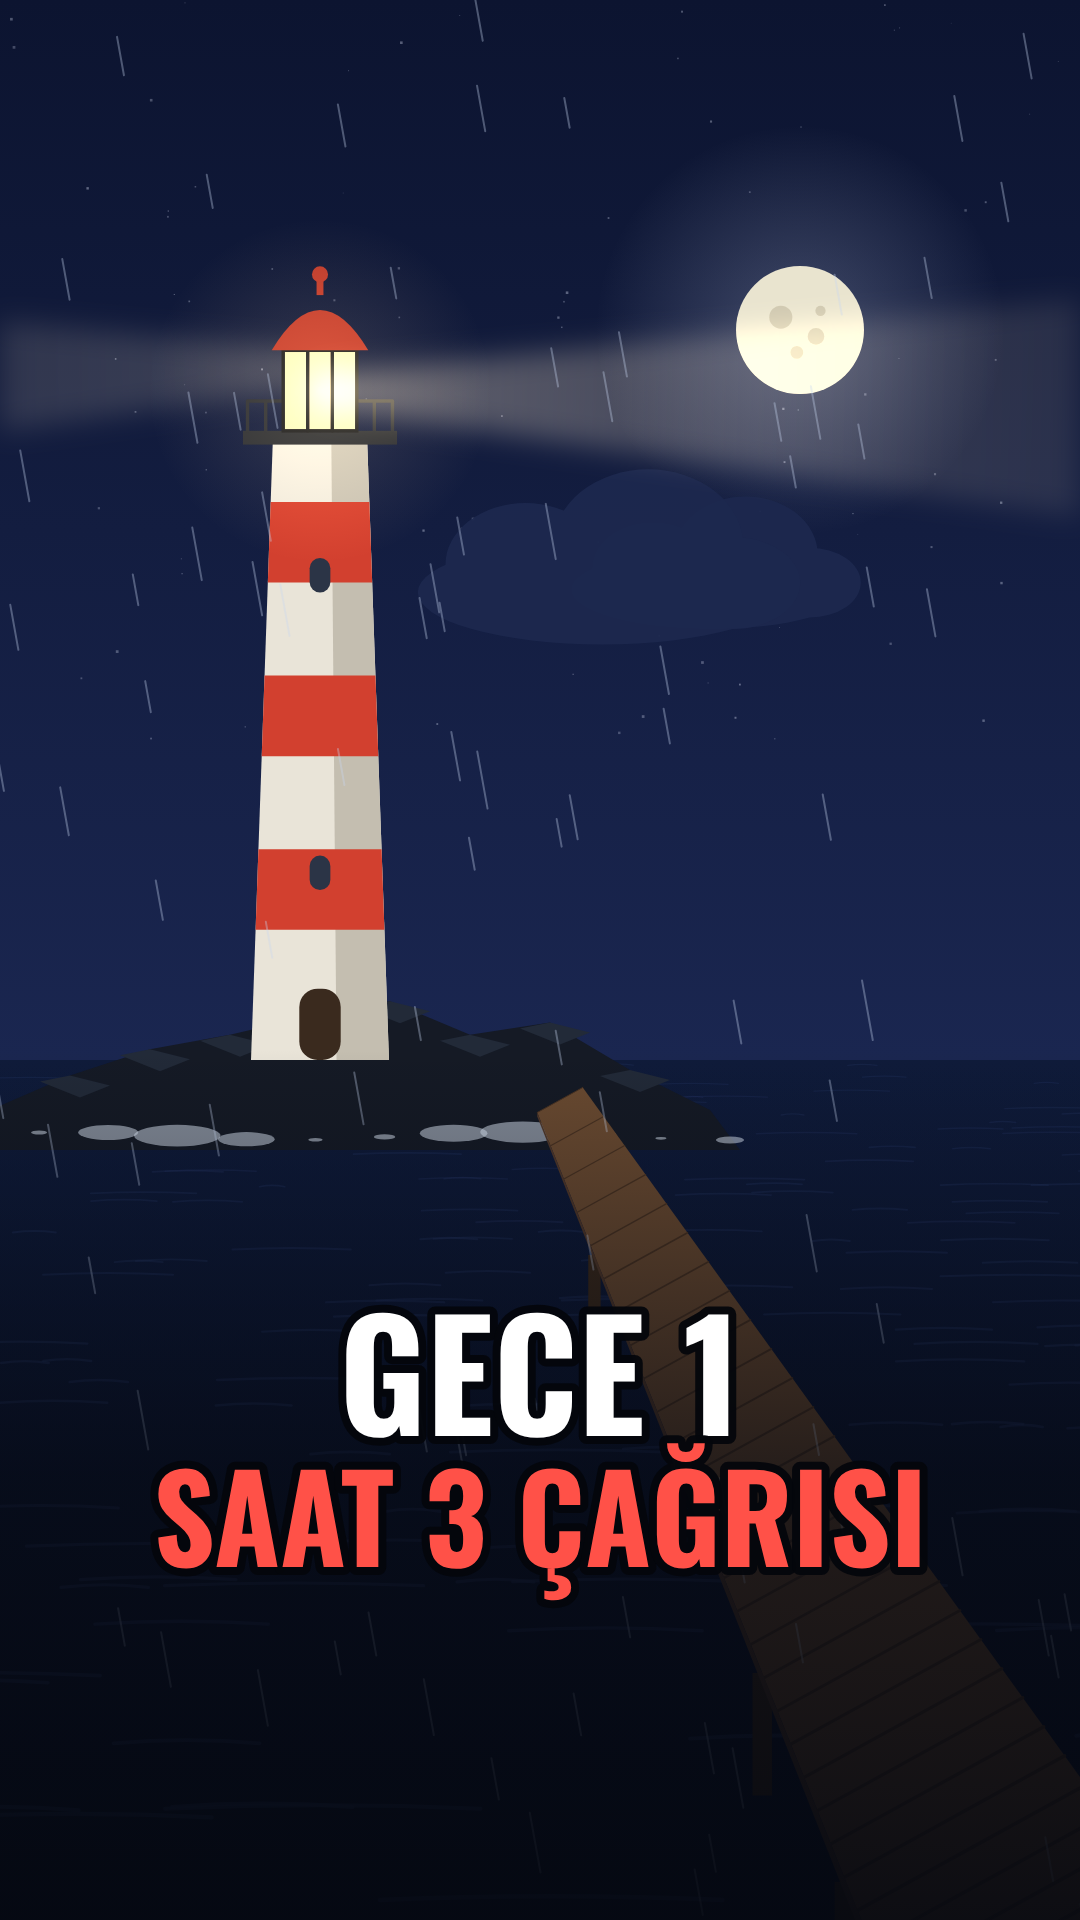
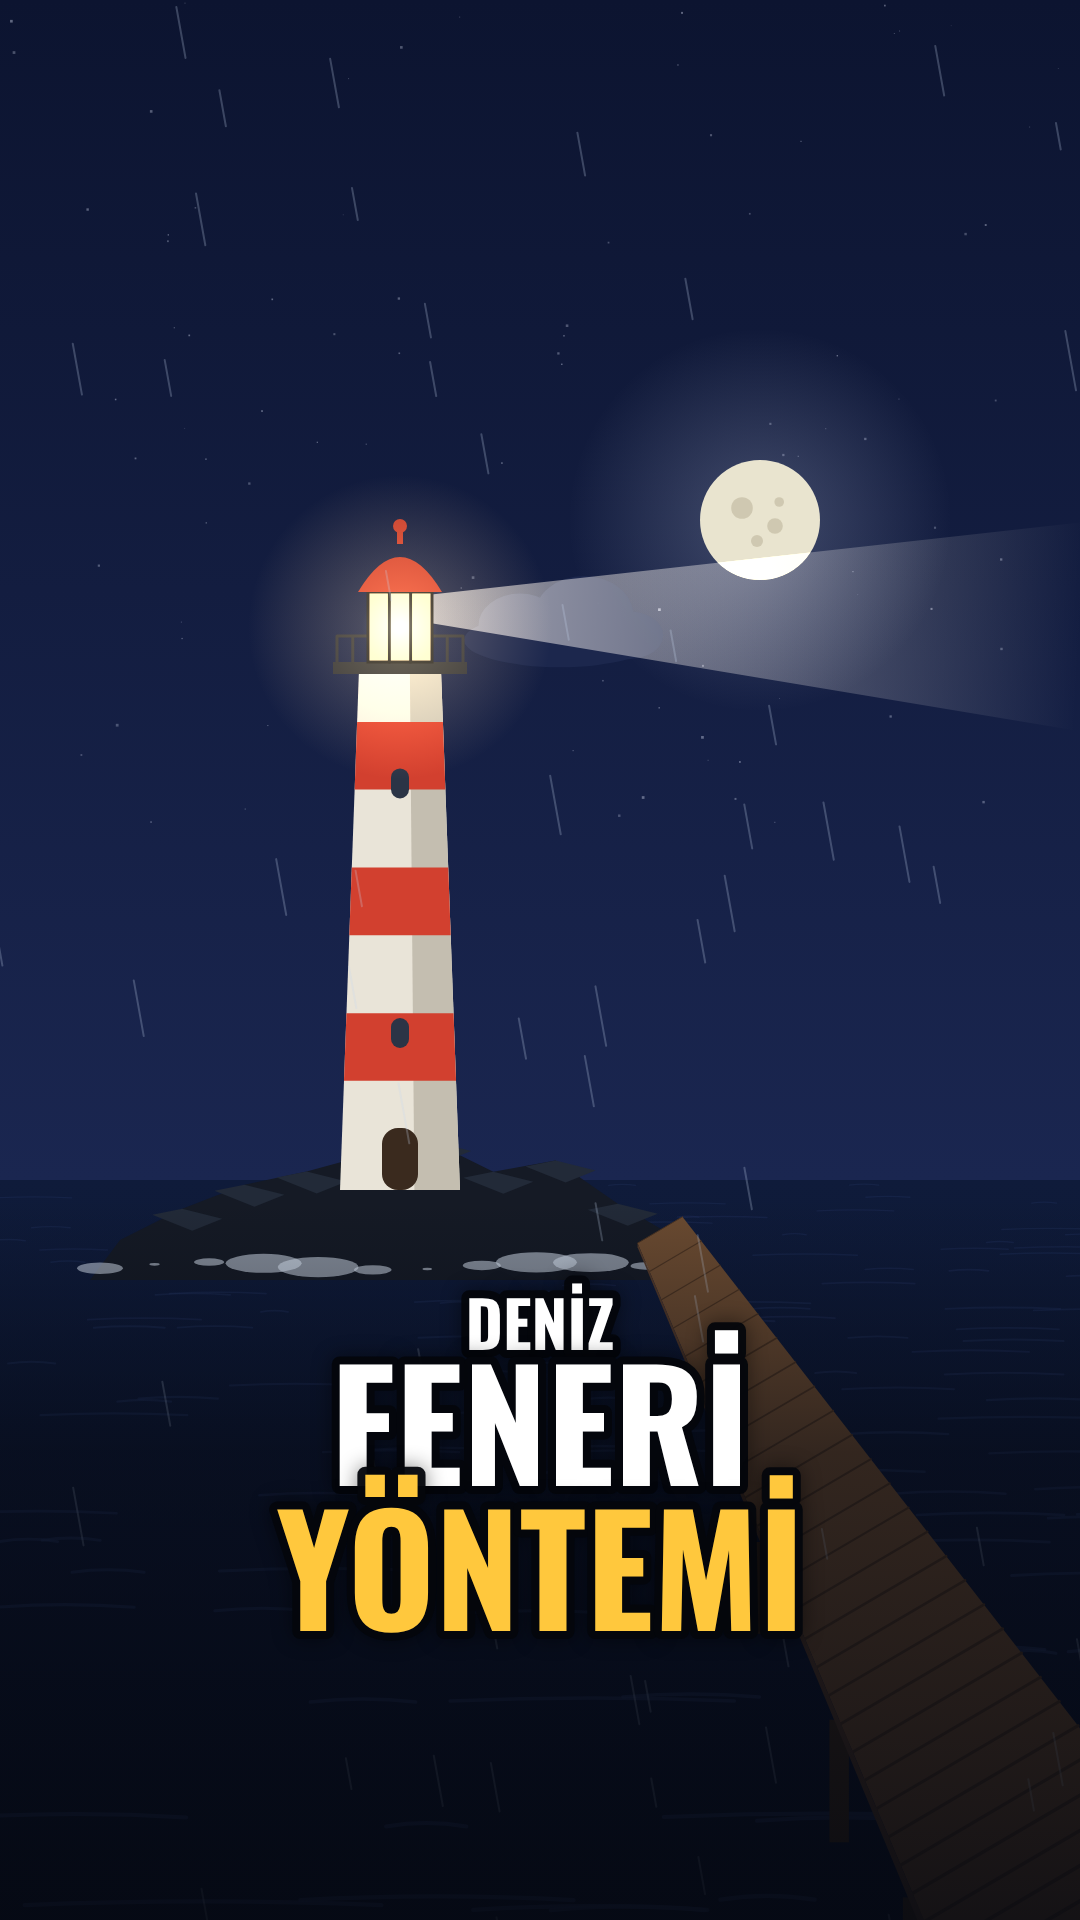
Tuhaf Saat: yeni kapak (Deniz Feneri Yöntemi) ve profil fotoğrafı
Claude-Session: https://claude.ai/code/session_019AVEw9Bb178qSbqNE47MX8

Changed region(s): [[0.0, 0.0938, 1.0, 0.9375], [0.0611, 0.6562, 0.1222, 0.6875]]

diff --git a/tuhaf/motor/marka.js b/tuhaf/motor/marka.js
@@ -3,71 +3,92 @@
 
 function drawPP(ctx, S = 1080) {
   ctx.save(); ctx.setTransform(1, 0, 0, 1, 0, 0);
-  const g = ctx.createRadialGradient(S * 0.5, S * 0.5, 40, S * 0.5, S * 0.5, S * 0.72);
-  g.addColorStop(0, '#222a55'); g.addColorStop(1, '#0a0e22');
+  // gece mavisi zemin, ortada hafif ışık
+  const g = ctx.createRadialGradient(S * 0.5, S * 0.46, 30, S * 0.5, S * 0.5, S * 0.7);
+  g.addColorStop(0, '#26306a'); g.addColorStop(0.55, '#161c40'); g.addColorStop(1, '#090c1e');
   ctx.fillStyle = g; ctx.fillRect(0, 0, S, S);
-  const cx = S * 0.48;
+  const cx = S * 0.5;
+  const fx = S * 0.61, fy = S * 0.545;          // mum alevi
   // mum ışığı hâlesi
-  const fx = S * 0.6, fy = S * 0.6;
   ctx.save(); ctx.globalCompositeOperation = 'lighter';
-  const hg = ctx.createRadialGradient(fx, fy, 0, fx, fy, S * 0.42);
-  hg.addColorStop(0, 'rgba(255,190,110,0.32)'); hg.addColorStop(1, 'rgba(255,190,110,0)');
+  const hg = ctx.createRadialGradient(fx, fy, 0, fx, fy, S * 0.36);
+  hg.addColorStop(0, 'rgba(255,196,120,0.42)'); hg.addColorStop(0.4, 'rgba(255,170,90,0.14)'); hg.addColorStop(1, 'rgba(255,160,80,0)');
   ctx.fillStyle = hg; ctx.fillRect(0, 0, S, S); ctx.restore();
-  // cüppe
-  ctx.fillStyle = '#3a2b5e';
-  ctx.beginPath(); ctx.moveTo(cx - 150, S * 0.6); ctx.lineTo(cx - 260, S * 1.02); ctx.lineTo(cx + 270, S * 1.02); ctx.lineTo(cx + 160, S * 0.6); ctx.closePath(); ctx.fill();
-  ctx.fillStyle = '#2c2148';
-  ctx.beginPath(); ctx.moveTo(cx + 20, S * 0.62); ctx.lineTo(cx + 40, S * 1.02); ctx.lineTo(cx + 270, S * 1.02); ctx.lineTo(cx + 160, S * 0.6); ctx.closePath(); ctx.fill();
+  // cüppe (iki tonlu)
+  ctx.fillStyle = '#3b2b62';
+  ctx.beginPath(); ctx.moveTo(cx - 120, S * 0.6); ctx.quadraticCurveTo(cx - 200, S * 0.78, cx - 250, S * 1.02);
+  ctx.lineTo(cx + 250, S * 1.02); ctx.quadraticCurveTo(cx + 200, S * 0.78, cx + 120, S * 0.6); ctx.closePath(); ctx.fill();
+  ctx.fillStyle = '#2d2150';
+  ctx.beginPath(); ctx.moveTo(cx + 18, S * 0.62); ctx.lineTo(cx + 34, S * 1.02); ctx.lineTo(cx + 250, S * 1.02); ctx.quadraticCurveTo(cx + 200, S * 0.78, cx + 120, S * 0.6); ctx.closePath(); ctx.fill();
   // kapüşon
-  ctx.fillStyle = '#433268';
-  ctx.beginPath(); ctx.ellipse(cx, S * 0.43, 205, 225, 0, 0, Math.PI * 2); ctx.fill();
-  ctx.fillStyle = '#1c1433';
-  ctx.beginPath(); ctx.ellipse(cx, S * 0.45, 150, 158, 0, 0, Math.PI * 2); ctx.fill();
+  ctx.fillStyle = '#44336f';
+  ctx.beginPath(); ctx.ellipse(cx, S * 0.425, 180, 200, 0, 0, Math.PI * 2); ctx.fill();
+  ctx.fillStyle = '#3a2b61';
+  ctx.beginPath(); ctx.ellipse(cx + 40, S * 0.44, 140, 182, 0, -0.6, 1.6); ctx.fill();
+  ctx.fillStyle = '#17112b';
+  ctx.beginPath(); ctx.ellipse(cx, S * 0.445, 128, 136, 0, 0, Math.PI * 2); ctx.fill();
   // yüz
-  ctx.fillStyle = SKIN; ctx.strokeStyle = INK; ctx.lineWidth = 10;
-  ctx.beginPath(); ctx.ellipse(cx, S * 0.455, 122, 128, 0, 0, Math.PI * 2); ctx.fill(); ctx.stroke();
-  // gözler, kaşlar (biri havada), sinsi gülümseme
-  ctx.fillStyle = INK;
-  ctx.beginPath(); ctx.ellipse(cx - 42, S * 0.45, 12, 15, 0, 0, Math.PI * 2); ctx.ellipse(cx + 42, S * 0.45, 12, 15, 0, 0, Math.PI * 2); ctx.fill();
-  ctx.lineWidth = 9; ctx.lineCap = 'round';
-  ctx.beginPath(); ctx.moveTo(cx - 70, S * 0.4); ctx.lineTo(cx - 20, S * 0.41); ctx.moveTo(cx + 18, S * 0.405); ctx.lineTo(cx + 70, S * 0.385); ctx.stroke();
-  ctx.beginPath(); ctx.arc(cx + 6, S * 0.475, 46, Math.PI * 0.2, Math.PI * 0.75); ctx.stroke();
-  // kol ve el
-  ctx.strokeStyle = '#140f22'; ctx.lineWidth = 8;
-  ctx.beginPath(); ctx.moveTo(cx + 40, S * 0.72); ctx.lineTo(fx - 10, S * 0.7); ctx.stroke();
-  // mum
-  ctx.fillStyle = '#efe6cf'; rr(ctx, fx - 24, S * 0.53, 48, 150, 10); ctx.fill();
-  ctx.strokeStyle = '#c9bfa6'; ctx.lineWidth = 4; ctx.stroke();
-  ctx.fillStyle = SKIN; ctx.strokeStyle = INK; ctx.lineWidth = 7;
-  ctx.beginPath(); ctx.arc(fx, S * 0.7, 32, 0, Math.PI * 2); ctx.fill(); ctx.stroke();
+  ctx.fillStyle = SKIN; ctx.strokeStyle = INK; ctx.lineWidth = 9;
+  ctx.beginPath(); ctx.ellipse(cx, S * 0.452, 104, 110, 0, 0, Math.PI * 2); ctx.fill(); ctx.stroke();
+  // sinsi bakış: içe eğik kaşlar, nokta gözler, yan gülümseme
+  ctx.fillStyle = INK; ctx.lineCap = 'round';
+  ctx.beginPath(); ctx.ellipse(cx - 36, S * 0.448, 10, 13, 0, 0, Math.PI * 2); ctx.ellipse(cx + 36, S * 0.448, 10, 13, 0, 0, Math.PI * 2); ctx.fill();
+  ctx.strokeStyle = INK; ctx.lineWidth = 8;
+  ctx.beginPath(); ctx.moveTo(cx - 62, S * 0.398); ctx.lineTo(cx - 20, S * 0.414); ctx.moveTo(cx + 20, S * 0.414); ctx.lineTo(cx + 62, S * 0.398); ctx.stroke();
+  ctx.lineWidth = 7;
+  ctx.beginPath(); ctx.moveTo(cx - 30, S * 0.5); ctx.quadraticCurveTo(cx + 2, S * 0.528, cx + 36, S * 0.494); ctx.stroke();
+  // kol ve el, mum
+  ctx.strokeStyle = '#120d20'; ctx.lineWidth = 7;
+  ctx.beginPath(); ctx.moveTo(cx + 30, S * 0.72); ctx.quadraticCurveTo(cx + 70, S * 0.7, fx - 6, S * 0.682); ctx.stroke();
+  ctx.fillStyle = '#efe6cf'; rr(ctx, fx - 20, fy + 20, 40, 118, 9); ctx.fill();
+  ctx.strokeStyle = '#cfc4a8'; ctx.lineWidth = 3; ctx.stroke();
+  ctx.fillStyle = '#efe6cf'; ctx.beginPath(); ctx.ellipse(fx - 8, fy + 24, 8, 14, 0, 0, Math.PI * 2); ctx.fill();   // eriyen mum
+  ctx.fillStyle = SKIN; ctx.strokeStyle = INK; ctx.lineWidth = 6;
+  ctx.beginPath(); ctx.arc(fx, S * 0.686, 27, 0, Math.PI * 2); ctx.fill(); ctx.stroke();
   // alev
-  const fl = ctx.createRadialGradient(fx, S * 0.49, 0, fx, S * 0.49, 46);
-  fl.addColorStop(0, '#fff6d0'); fl.addColorStop(0.5, '#ffc95a'); fl.addColorStop(1, 'rgba(255,140,40,0)');
-  ctx.fillStyle = fl; ctx.beginPath(); ctx.ellipse(fx, S * 0.49, 26, 50, 0, 0, Math.PI * 2); ctx.fill();
-  ctx.fillStyle = '#fff8e6'; ctx.beginPath(); ctx.ellipse(fx, S * 0.5, 9, 20, 0, 0, Math.PI * 2); ctx.fill();
+  const fl = ctx.createRadialGradient(fx, fy - 6, 0, fx, fy - 6, 40);
+  fl.addColorStop(0, '#fff7d6'); fl.addColorStop(0.45, '#ffcf5e'); fl.addColorStop(1, 'rgba(255,140,40,0)');
+  ctx.fillStyle = fl; ctx.beginPath(); ctx.ellipse(fx, fy - 4, 22, 42, 0, 0, Math.PI * 2); ctx.fill();
+  ctx.fillStyle = '#fffaf0'; ctx.beginPath(); ctx.ellipse(fx, fy + 2, 8, 17, 0, 0, Math.PI * 2); ctx.fill();
+  ctx.strokeStyle = '#2a2116'; ctx.lineWidth = 3; ctx.beginPath(); ctx.moveTo(fx, fy + 14); ctx.lineTo(fx, fy + 22); ctx.stroke();
+  // yüzde mum yansıması
+  ctx.save(); ctx.globalCompositeOperation = 'lighter';
+  const rg = ctx.createRadialGradient(cx + 70, S * 0.47, 0, cx + 70, S * 0.47, 120);
+  rg.addColorStop(0, 'rgba(255,190,110,0.16)'); rg.addColorStop(1, 'rgba(255,190,110,0)');
+  ctx.fillStyle = rg; ctx.fillRect(cx - 60, S * 0.32, 260, 300); ctx.restore();
   ctx.restore();
 }
 
 function drawCover(ctx) {
+  // Senin sabitlenmiş kapağının Türkçesi: THE LIGHTHOUSE METHOD → DENİZ FENERİ YÖNTEMİ
   ctx.save(); ctx.setTransform(1, 0, 0, 1, 0, 0);
-  const t = 2.0;
-  nightBackdrop(ctx, t, 1060, { moon: { x: 800, y: 330, r: 64 }, nClouds: 2, cy0: 420 });
-  const g = lighthouseGeom(320, 1060, 620, 1.15);
-  const rig = lightRig(ctx, g, 0, { on: 1, phase0: 1.2, len: 1400, fog: 0.2 });
-  drawRocks(ctx, 350, 1110, 720, { rock: '#151a25', rockHi: '#222a38' }, { h: 110, t, seed: 4 });
+  const t = 1.6;
+  nightBackdrop(ctx, t, 1180, { moon: { x: 760, y: 520, r: 60 }, nClouds: 0, stars: 0.3 });
+  ctx.fillStyle = 'rgba(28,40,78,0.95)'; cloudShape(ctx, 560, 640, 0.8);
+  const g = lighthouseGeom(400, 1190, 520, 1.0);
+  // huzme sağa
+  ctx.save(); ctx.globalCompositeOperation = 'lighter';
+  const bg = ctx.createLinearGradient(g.lx, g.ly, 1080, g.ly + 40);
+  bg.addColorStop(0, 'rgba(255,236,190,0.55)'); bg.addColorStop(1, 'rgba(255,236,190,0)');
+  ctx.fillStyle = bg; ctx.beginPath(); ctx.moveTo(g.lx, g.ly - 10); ctx.lineTo(1120, g.ly - 90); ctx.lineTo(1120, g.ly + 130); ctx.lineTo(g.lx, g.ly + 10); ctx.closePath(); ctx.fill();
+  ctx.restore();
+  drawRocks(ctx, 400, 1240, 560, { rock: '#151a25', rockHi: '#222a38' }, { h: 100, t, seed: 4 });
   drawLighthouse(ctx, g, { lit: 1, stripes: true });
-  rig.front();
-  drawPierDiag(ctx, 560, 1100, 1050, 1990, 26, 150);
-  drawRain(ctx, t, { n: 140, a: 0.35 });
-  const gr = ctx.createLinearGradient(0, 1050, 0, 1920);
-  gr.addColorStop(0, 'rgba(5,8,16,0)'); gr.addColorStop(0.5, 'rgba(5,8,16,0.7)'); gr.addColorStop(1, 'rgba(5,8,16,0.92)');
-  ctx.fillStyle = gr; ctx.fillRect(0, 1050, W, 870);
+  drawGlare(ctx, g.lx, g.ly, 0.5, 0.8, 0);
+  drawPierDiag(ctx, 660, 1230, 1100, 1980, 26, 140);
+  drawRain(ctx, t, { n: 90, a: 0.25 });
+  // başlık (3:4 ızgara kırpımının içinde)
+  const gr = ctx.createLinearGradient(0, 1200, 0, 1920);
+  gr.addColorStop(0, 'rgba(5,8,16,0)'); gr.addColorStop(0.35, 'rgba(5,8,16,0.55)'); gr.addColorStop(1, 'rgba(5,8,16,0.85)');
+  ctx.fillStyle = gr; ctx.fillRect(0, 1200, W, 720);
   ctx.textAlign = 'center'; ctx.textBaseline = 'middle';
   const title = (txt, y, size, col) => {
     ctx.font = `700 ${size}px Oswald`; ctx.lineJoin = 'round'; ctx.lineWidth = 16; ctx.strokeStyle = 'rgba(4,6,12,0.95)';
-    ctx.strokeText(txt, W / 2, y); ctx.fillStyle = col; ctx.fillText(txt, W / 2, y);
+    ctx.shadowColor = 'rgba(0,0,0,0.5)'; ctx.shadowBlur = 20; ctx.strokeText(txt, W / 2, y); ctx.shadowColor = 'transparent';
+    ctx.fillStyle = col; ctx.fillText(txt, W / 2, y);
   };
-  title('GECE 1', 1390, 150, '#ffffff');
-  title('SAAT 3 ÇAĞRISI', 1530, 120, '#ff5148');
+  title('DENİZ', 1330, 64, '#ffffff');
+  title('FENERİ', 1440, 150, '#ffffff');
+  title('YÖNTEMİ', 1585, 150, '#ffc83d');
   ctx.restore();
 }

diff --git a/tuhaf/README.md b/tuhaf/README.md
@@ -21,7 +21,7 @@ Seçimini yorumlara yaz. Çoğunluk kazanır.
 ## Fener · Gece 1/7
 
 - **Video:** `cikti/gece1.mp4` (1080×1920, 30 fps, 1:19)
-- **Kapak:** `cikti/kapak.png` ("GECE 1 · SAAT 3 ÇAĞRISI")
+- **Kapak:** `cikti/kapak.png` ("DENİZ FENERİ YÖNTEMİ", sabitlenmiş kapağının Türkçesi)
 - **Sesler:** anlatıcı (Orhan), kayıkçı Moss (Aykut), telsizdeki kaptan (Emre, telsiz filtresiyle)
 - **Altyazı:** en fazla 3 kelime; o an söylenen kelime sarı (karaoke)
 - **Güvenli alan:** üst 250 px, alt 420 px ve sağ ~140 px (beğen/yorum/paylaş sütunu) boş bırakıldı; her şey x 60–940, y 250–1500 arasında
